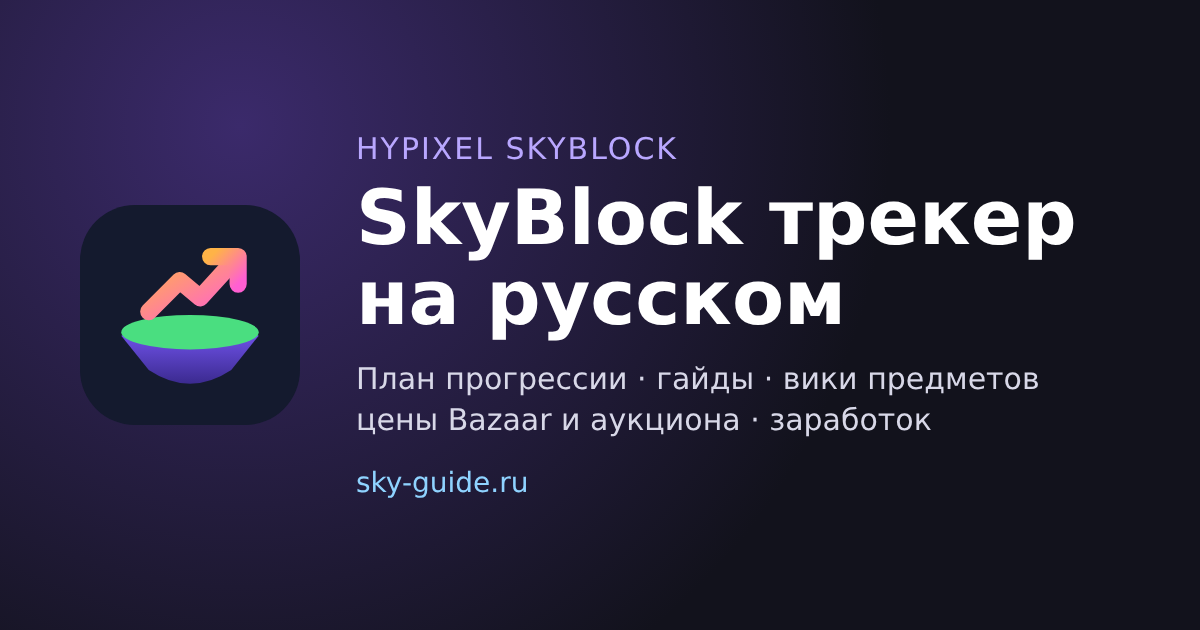
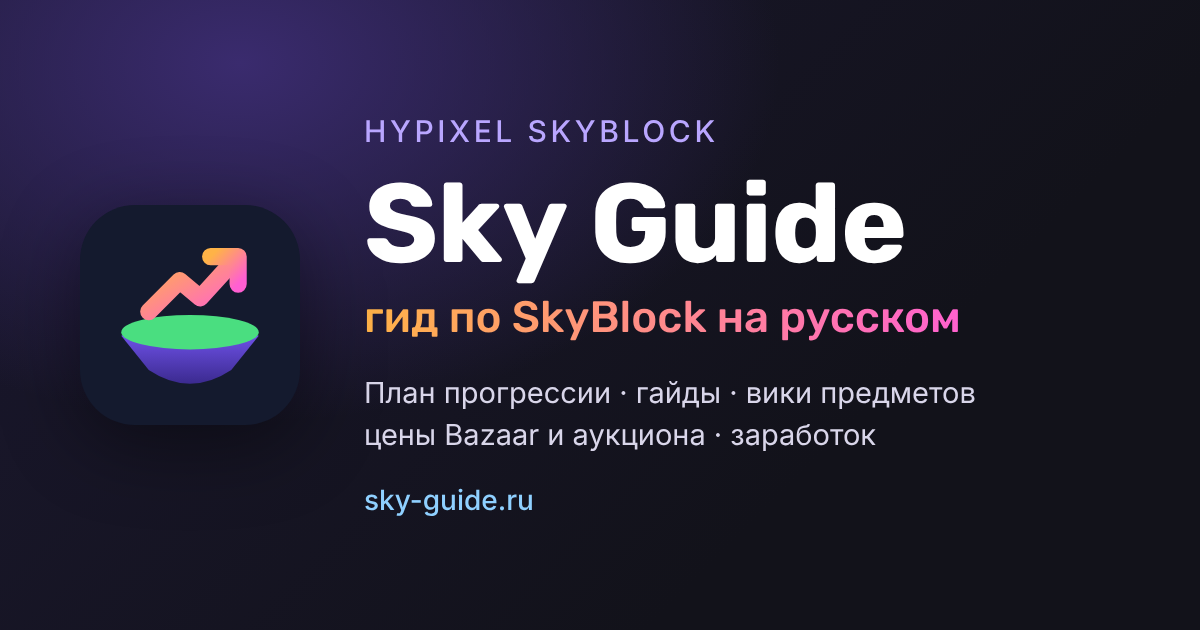
Превью ссылки: бренд Sky Guide, своя картинка для /en/
public/og.png — «Sky Guide · гид по SkyBlock на русском», public/og-en.png — английская (api отдаёт её на /en/).
Картинки собирает scripts/og.mjs (Playwright, шрифты сайта). Заголовок и описание index.html по умолчанию — тоже Sky Guide.

Claude-Session: https://claude.ai/code/session_01SvhymjfLVcHDmXKfK9Q2X5

Changed region(s): [[0.0, 0.181, 0.8942, 0.8444], [0.1542, 0.3016, 0.2158, 0.3317]]

diff --git a/index.html b/index.html
@@ -3,10 +3,10 @@
   <head>
     <meta charset="UTF-8" />
     <meta name="viewport" content="width=device-width, initial-scale=1.0, viewport-fit=cover" />
-    <title>SkyBlock трекер на русском: профиль, прогрессия, заработок</title>
-    <meta name="description" content="Трекер Hypixel SkyBlock на русском: введи ник и получи план прогрессии, снаряжение, аксессуары, питомцев, гайды и способы заработка по живым ценам Bazaar и аукциона." />
+    <title>Sky Guide — гид по Hypixel SkyBlock на русском</title>
+    <meta name="description" content="Гид по Hypixel SkyBlock на русском: введи ник и получи план прогрессии, снаряжение, аксессуары, питомцев, гайды и способы заработка по живым ценам Bazaar и аукциона." />
     <meta property="og:type" content="website" />
-    <meta property="og:title" content="SkyBlock трекер на русском" />
+    <meta property="og:title" content="Sky Guide — гид по SkyBlock" />
     <meta property="og:description" content="Введи ник Minecraft и узнай, что делать дальше в Hypixel SkyBlock: план, снаряжение, заработок, гайды." />
     <meta property="og:locale" content="ru_RU" />
     <link rel="icon" href="/favicon.svg" type="image/svg+xml" />
